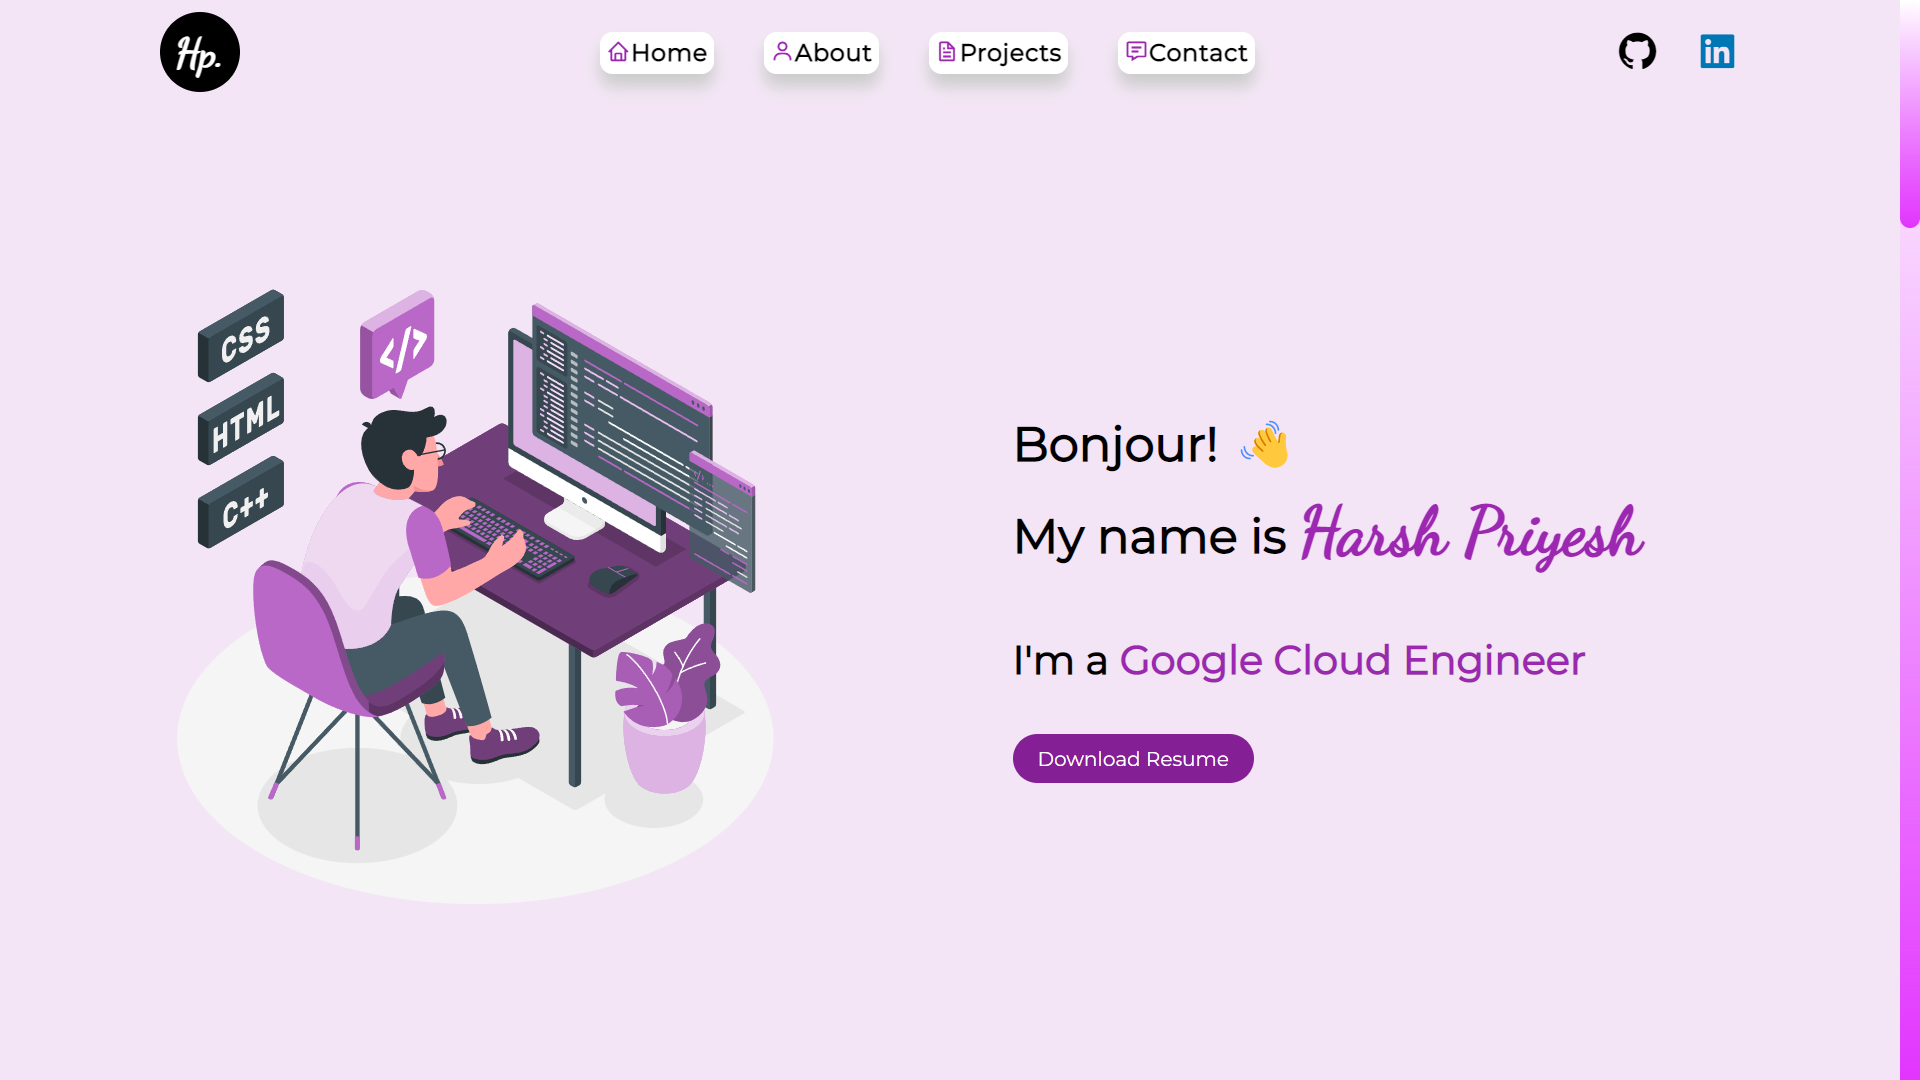
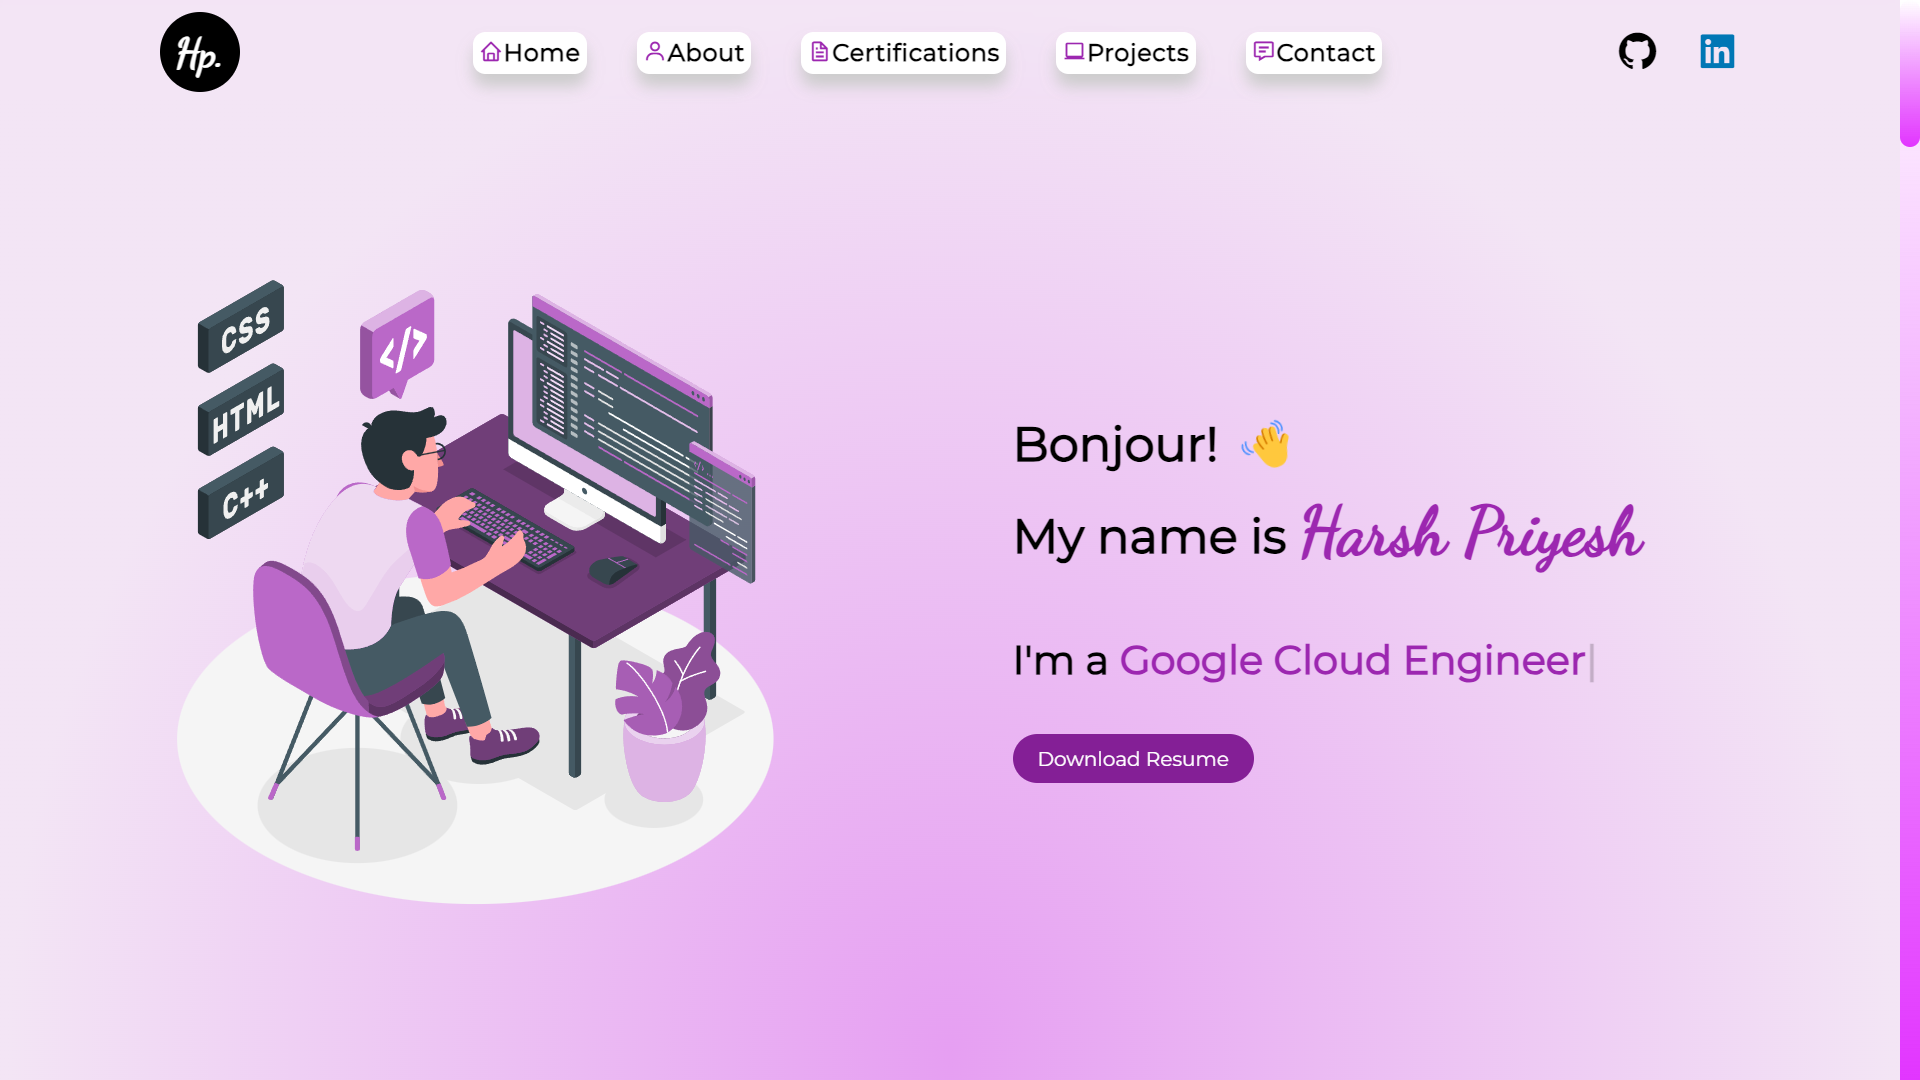
show less more feature added in certification section

diff --git a/index.html b/index.html
@@ -33,7 +33,8 @@
           </li>
           <li>
             <a class="underline" href="#certification"
-              ><i class="bx bx-file" style="color: #9c27b0"></i>Certifications</a
+              ><i class="bx bx-file" style="color: #9c27b0"></i
+              >Certifications</a
             >
           </li>
           <li>
@@ -495,6 +496,7 @@
         <div class="gallery">
           <a
             href="images/certificate1.png"
+            class="from-left slide-in"
             data-lightbox="certificate"
             data-title="Associate Cloud Engineer - Google Cloud"
           >
@@ -502,6 +504,7 @@
           </a>
           <a
             href="images/certificate2.jpg"
+            class="from-right slide-in"
             data-lightbox="certificate"
             data-title="Web Development - Internshala training"
           >
@@ -509,63 +512,68 @@
           </a>
         </div>
       </div>
-      <div class="achievement-container">
-        <div class="appreciation-letter">
-          <a
-            href="images/achievement1.jpg"
-            data-lightbox="achievement"
-            data-title="Appreciation Letter - Human Resource Development Govt. of India"
-          >
-            <img src="images/achievement1.jpg" />
-          </a>
-        </div>
-        <div class="certificate-container">
-          <div class="gallery">
+      <input id="ch2" type="checkbox" />
+      <div class="hide-content">
+        <div class="achievement-container">
+          <div class="appreciation-letter">
             <a
-              href="images/achievement6.jpg"
+              href="images/achievement1.jpg"
               data-lightbox="achievement"
-              data-title="Certificaate of Merit - All India Secondary School Certificate Examination"
+              data-title="Appreciation Letter - Human Resource Development Govt. of India"
             >
-              <img src="images/achievement6.jpg" />
-            </a>
-            <a
-              href="images/achievement2.jpg"
-              data-lightbox="achievement"
-              data-title="National Children Science Congress"
-            >
-              <img src="images/achievement2.jpg" />
-            </a>
-            <a
-              href="images/achievement3.jpg"
-              data-lightbox="achievement"
-              data-title="Science Exhibition"
-            >
-              <img src="images/achievement3.jpg" />
-            </a>
-            <a
-              href="images/achievement4.jpg"
-              data-lightbox="achievement"
-              data-title="Drawing Competition"
-            >
-              <img src="images/achievement4.jpg" />
-            </a>
-            <a
-              href="images/achievement5.jpg"
-              data-lightbox="achievement"
-              data-title="Space Explorer Workshop"
-            >
-              <img src="images/achievement5.jpg" />
-            </a>
-            <a
-              href="images/achievement7.jpg"
-              data-lightbox="achievement"
-              data-title="Declamation Contest"
-            >
-              <img src="images/achievement7.jpg" />
+              <img src="images/achievement1.jpg" />
             </a>
           </div>
+          <div class="certificate-container achievement">
+            <div class="gallery">
+              <a
+                href="images/achievement6.jpg"
+                data-lightbox="achievement"
+                data-title="Certificaate of Merit - All India Secondary School Certificate Examination"
+              >
+                <img src="images/achievement6.jpg" />
+              </a>
+              <a
+                href="images/achievement2.jpg"
+                data-lightbox="achievement"
+                data-title="National Children Science Congress"
+              >
+                <img src="images/achievement2.jpg" />
+              </a>
+              <a
+                href="images/achievement3.jpg"
+                data-lightbox="achievement"
+                data-title="Science Exhibition"
+              >
+                <img src="images/achievement3.jpg" />
+              </a>
+              <a
+                href="images/achievement4.jpg"
+                data-lightbox="achievement"
+                data-title="Drawing Competition"
+              >
+                <img src="images/achievement4.jpg" />
+              </a>
+              <a
+                href="images/achievement5.jpg"
+                data-lightbox="achievement"
+                data-title="Space Explorer Workshop"
+              >
+                <img src="images/achievement5.jpg" />
+              </a>
+              <a
+                href="images/achievement7.jpg"
+                data-lightbox="achievement"
+                data-title="Declamation Contest"
+              >
+                <img src="images/achievement7.jpg" />
+              </a>
+            </div>
+          </div>
         </div>
+        <label for="ch2" class="ch2"><p>Show Less</p></label>
       </div>
+      <label for="ch2" class="ch2"><p>Show More</p></label>
     </div>
 
     <!-- Projects Section -->

diff --git a/styles/certification.css b/styles/certification.css
@@ -11,7 +11,8 @@
   display: flex;
   align-items: center;
   justify-content: center;
-  padding: 50px 8%;
+  margin-top: 50px;
+  padding: 0px 8%;
 }
 
 .certificate-container .gallery {
@@ -22,7 +23,8 @@
 
 .certificate-container .gallery img {
   max-width: 100%;
-  border: 10px solid white;
+  border: 8px solid white;
+  border-radius: 10px;
   box-shadow: 0 5px 15px rgba(0, 0, 0, 0.315);
   transition: 0.2s linear;
 }
@@ -33,14 +35,19 @@
 .achievement-container {
   display: flex;
   flex-direction: row;
+  margin-top: 30px;
 }
 .appreciation-letter {
-  margin-top: 50px;
   margin-left: 8%;
 }
+.achievement {
+  margin-top: 0px;
+  padding: 0px 8%;
+}
 .appreciation-letter img {
-  max-width: 100%;
+  max-width: 115%;
   border: 10px solid white;
+  border-radius: 10px;
   box-shadow: 0 5px 15px rgba(0, 0, 0, 0.315);
   transition: 0.2s linear;
 }
@@ -49,6 +56,36 @@
   box-shadow: 0 5px 15px rgba(0, 0, 0, 0.8);
 }
 
+#ch2 {
+  display: none;
+}
+#certification .ch2 {
+  display: flex;
+  justify-content: center;
+  margin-top: 10px;
+}
+#certification label p {
+  color: white;
+  background-color: #9c27b0;
+  padding: 5px 7px;
+  border-radius: 8px;
+  margin-top: 12px;
+  font-weight: bold;
+}
+#certification label,
+#certification .hide-content {
+  display: none;
+}
+#certification label p {
+  display: inline-block;
+  cursor: pointer;
+}
+#ch2:checked ~ .hide-content {
+  display: block;
+}
+#ch2:checked ~ label {
+  display: none;
+}
 /* CSS for Small Screen*/
 @media only screen and (max-width: 600px) {
   .achievement-container {
@@ -56,5 +93,9 @@
   }
   .appreciation-letter {
     margin-left: 0px;
+    margin-bottom: 30px;
+  }
+  .appreciation-letter img {
+    max-width: 100%;
   }
 }

diff --git a/styles/about.css b/styles/about.css
@@ -291,7 +291,7 @@
   display: none;
 }
 
-label{
+.exp-content label{
   display: none;
 }
 /* CSS for Small Screen*/
@@ -299,10 +299,10 @@ label{
   #about {
     padding: 50px 10px;
   }
-  label, .hide-content {
+  .exp-content label, .hide-content {
     display: none;
   }
-  label {
+  .exp-content label {
     display: inline-block;
     /* cursor: pointer; */
   }
@@ -314,7 +314,7 @@ label{
     margin-top: 12px;
     font-weight: bold;
   }
-  .ch{
+  .exp-content .ch{
     display: flex;
     justify-content: center;
   }
